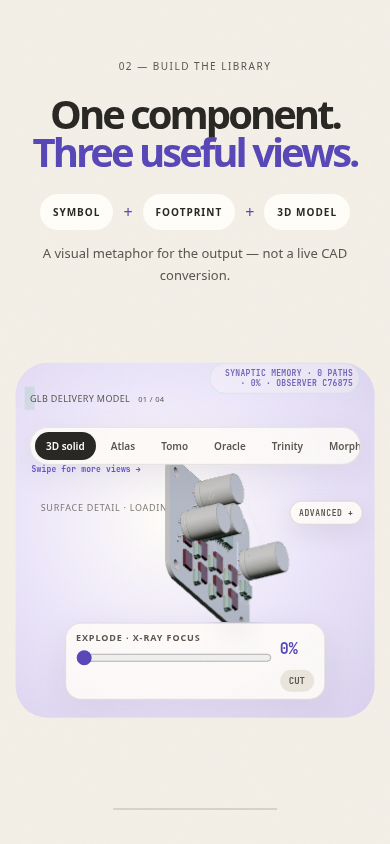
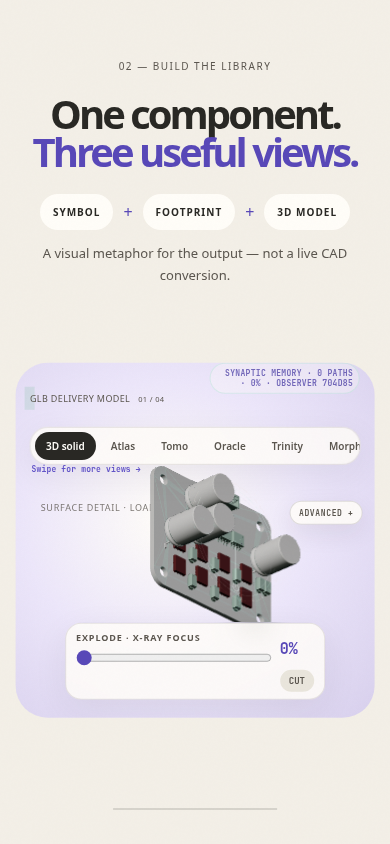
fix: improve model detail at library story beat

Changed region(s): [[0.3692, 0.5237, 0.7692, 0.7393], [0.8308, 0.4313, 0.8615, 0.4621]]

diff --git a/tests/model-narrative.spec.ts b/tests/model-narrative.spec.ts
@@ -1,17 +1,18 @@
 import { expect, test } from '@playwright/test';
 import { narrativeModelRotation, narrativeRotationTravel, temporalGhostDepth, temporalGhostOpacity } from '../src/js/model-narrative';
 
-test('mobile story rotation keeps the library-build view angled toward component detail', () => {
+test('responsive story rotation keeps the library-build view angled toward component detail', () => {
   const initialAngle = 0.22;
-  const libraryBuildAngle = 3.1;
-  const mobileAngle = narrativeModelRotation(initialAngle, libraryBuildAngle, 390);
+  const libraryBuildAngle = 2.2;
+  const mobileAngle = narrativeModelRotation(initialAngle, libraryBuildAngle, 359);
+  const desktopAngle = narrativeModelRotation(initialAngle, libraryBuildAngle, 700);
 
-  expect(narrativeRotationTravel(760)).toBe(0.3);
-  expect(mobileAngle).toBeLessThan((70 * Math.PI) / 180);
-  expect(narrativeRotationTravel(761)).toBeGreaterThan(0.3);
-  expect(narrativeRotationTravel(761)).toBeLessThan(narrativeRotationTravel(768));
-  expect(narrativeRotationTravel(1280)).toBe(1);
-  expect(narrativeModelRotation(initialAngle, libraryBuildAngle, 1440)).toBe(libraryBuildAngle);
+  expect(narrativeRotationTravel(360)).toBe(0.3);
+  expect(narrativeRotationTravel(530)).toBeCloseTo(0.4);
+  expect(mobileAngle).toBeLessThan((50 * Math.PI) / 180);
+  expect(narrativeRotationTravel(699)).toBeLessThan(0.5);
+  expect(narrativeRotationTravel(700)).toBe(0.5);
+  expect(desktopAngle).toBeLessThan((70 * Math.PI) / 180);
 });
 
 test('temporal model echoes trail behind past geometry and lead future geometry', () => {

diff --git a/src/js/model-narrative.ts b/src/js/model-narrative.ts
@@ -1,26 +1,27 @@
 export type NarrativeTrack = "past" | "present" | "future";
 
-const MOBILE_VIEWPORT_MAX_WIDTH = 760;
-const DESKTOP_VIEWPORT_FULL_ROTATION_WIDTH = 1280;
+const MOBILE_STAGE_WIDTH_MAX = 360;
+const DESKTOP_STAGE_WIDTH_BASELINE = 700;
 const MOBILE_ROTATION_TRAVEL = 0.3;
+const DESKTOP_ROTATION_TRAVEL = 0.5;
 
-export const narrativeRotationTravel = (viewportWidth: number): number => {
+export const narrativeRotationTravel = (stageWidth: number): number => {
   const responsiveProgress = Math.max(
     0,
     Math.min(
       1,
-      (viewportWidth - MOBILE_VIEWPORT_MAX_WIDTH) /
-        (DESKTOP_VIEWPORT_FULL_ROTATION_WIDTH - MOBILE_VIEWPORT_MAX_WIDTH),
+      (stageWidth - MOBILE_STAGE_WIDTH_MAX) /
+        (DESKTOP_STAGE_WIDTH_BASELINE - MOBILE_STAGE_WIDTH_MAX),
     ),
   );
-  return MOBILE_ROTATION_TRAVEL + responsiveProgress * (1 - MOBILE_ROTATION_TRAVEL);
+  return MOBILE_ROTATION_TRAVEL + responsiveProgress * (DESKTOP_ROTATION_TRAVEL - MOBILE_ROTATION_TRAVEL);
 };
 
 export const narrativeModelRotation = (
   initialRotation: number,
   targetRotation: number,
-  viewportWidth: number,
-): number => initialRotation + (targetRotation - initialRotation) * narrativeRotationTravel(viewportWidth);
+  stageWidth: number,
+): number => initialRotation + (targetRotation - initialRotation) * narrativeRotationTravel(stageWidth);
 
 const TEMPORAL_GHOST_DEPTH = 0.022;
 const TEMPORAL_GHOST_OPACITY: Record<NarrativeTrack, number> = {

diff --git a/src/js/model-viewer.ts b/src/js/model-viewer.ts
@@ -3100,7 +3100,7 @@ export const setupModel = async (): Promise<void> => {
   const keyframes = [
     { at: 0, x: 0, y: 0, rx: -0.28, ry: 0.22, scale: 1 },
     { at: 0.23, x: -0.28, y: 0.02, rx: -0.12, ry: 1.3, scale: 0.92 },
-    { at: 0.48, x: 0.3, y: -0.03, rx: -0.48, ry: 3.1, scale: 0.9 },
+    { at: 0.48, x: 0.3, y: -0.03, rx: -0.48, ry: 2.2, scale: 0.9 },
     { at: 0.73, x: 0.72, y: 0.02, rx: -0.2, ry: 4.7, scale: 0.65 },
     { at: 1, x: 1.15, y: -0.04, rx: 0.04, ry: 6.1, scale: 0.34 },
   ];

diff --git a/docs/QUALITY_BASELINE_en.md b/docs/QUALITY_BASELINE_en.md
@@ -7,7 +7,7 @@ Recorded: 2026-10-17. This document records facts reproducible from the reposito
 ## Verified
 
 - 2026-10-17: The nine mobile Lab view options exceeded the visible width, while the hidden scrollbar made horizontal scrolling hard to discover. Added a bilingual visual cue and screen-reader description; it appears only on narrow screens in the 3D solid view, stays clear of status and controls in both motion modes, and is hidden at 768/1440px. Bilingual 390px screenshots: `.github/pr-evidence/lab-scroll-cue-after-{zh,en}-390.png`. Build (8 routes, zero Astro diagnostics), `pnpm run check`, full Playwright (240 passed, 4 skipped), eight-page validation, model-asset checks, and `git diff --check` passed. Feng083 independently reviewed PR #398; Site Quality run `38985998641` (240 passed, 4 skipped) and Dependency Review `38985998628` passed. Not deployed or tested on a real device.
-- 2026-10-17: Bilingual 390px Lab scroll screenshots showed the board near a 95° side view at the “Build the library” beat, obscuring component detail. Mobile model-story rotation is limited to 30% of desktop travel, with a smooth transition across 760–1280px; the mobile pose at this beat is about 62°, while 1440px desktop travel is unchanged. Before/after bilingual 390px screenshots and a Chinese 1440px screenshot are in `.github/pr-evidence/lab-mobile-model-detail-{before,after}-*`. `pnpm run check`, build (8 routes, zero Astro diagnostics), full Playwright (242 passed, 4 skipped), eight-page validation, model-asset checks, six Python unit tests, and `git diff --check` passed. On `fix/lab-mobile-model-detail-angle`; not deployed or tested on a real device.
+- 2026-10-17: Bilingual 390px and Chinese 1440px Lab scroll screenshots both showed the board near a 95° side view at the “Build the library” beat. Stage widths are 359px and 700px at those viewports. Mobile stage rotation travel smoothly scales from 30% to the existing 50% keyframe delta across 360–700px, and the beat target changes from 3.1rad to 2.2rad. The phone/desktop poses are now about 46°/69°, making the board face and component details clearer. Before/after screenshots are in `.github/pr-evidence/lab-mobile-model-detail-{before,after}-*`. `pnpm run check`, build (8 routes, zero Astro diagnostics), full Playwright (242 passed, 4 skipped), eight-page validation, model-asset checks, six Python unit tests, and `git diff --check` passed. On `fix/lab-mobile-model-detail-angle`; not deployed or tested on a real device.
 - 2026-10-17: PR #393 changed the third homepage workflow-card CTA from “Start downloading” to “View downloads,” accurately describing its same-page link to download options. The Chinese label changed from “开始下载” to “查看下载项.” Added a bilingual browser assertion and reviewed 390px/1440px story-rail screenshots. Local Astro check, build, full Playwright (238 passed, 4 skipped), eight-route validation, model-asset checks, and `git diff --check` passed. Feng083 independently reviewed it; PR Site Quality `38981064439`, Dependency Review `38981064437`, and post-merge Site Quality `38981532611` passed (238 passed, 4 skipped). PR #395 synchronized master ancestry (no file diff); its PR checks `38982132479` and post-merge run `38982415123` passed. PR #394 promoted the update to `master` (merge `92a20a2`); PR Site Quality `38982421088` and master push Site Quality `38982780264` passed (238 passed, 4 skipped). Not deployed or tested on a real device.
 - 2026-10-17: PR #387 aligned Chinese and English installation guidance, explicitly asking visitors to review the release notes and verify SHA256 before installing. At 320px, the English download heading dropped from four lines to three and both localized primary download CTAs stay on one line. Initial PR CI found a fourth English title line under Runner font metrics that local browsers did not reproduce; a smaller narrow-screen size passed the unchanged strict regression. Bilingual 320/390/1440px screenshots are included. Feng083 independently reviewed the latest commit before merge into `version/V0.0.1` at `f6fe1a6`; PR Site Quality `38974419278` (238 passed, 4 skipped), Dependency Review `38974419245`, and post-merge Site Quality `38974971842` (238 passed, 4 skipped) passed. Local checks passed. PR #389 promoted the change to `master` (merge `77081fc`) after independent approval and required checks; master push Site Quality `38977597850` passed (238 passed, 4 skipped). Source is not deployed or real-device tested. The Release API returned 403, so the build used the `v3.1.13` fallback.
 - 2026-10-17: PR #384 aligned the bilingual Lab introduction around the real STEP-derived GLB, mesh-atlas/section/topology views, and when controls become available. It moved the homepage CAD/WASM boundary and GLB-failure fallback into the loading card, and fixed the stranded CAD/WASM line in the Chinese mobile intro. Both intro paragraphs stay within 80px at 320/360/390px; a Han-orphan regression and bilingual 320/390/1440px screenshots were added. Feng083 independently reviewed the change before it merged into `version/V0.0.1` at `3127d3f`. PR Site Quality `38968520101` and post-merge run `38969218943` passed (238 passed, 4 skipped); Dependency Review `38968520149` passed. Local build (8 routes, zero Astro diagnostics), focused regressions (6 passed), full Playwright (238 passed, 4 skipped), eight-route validation, desktop/mobile model-asset checks, and `git diff --check` passed. PR #385 synchronized bilingual project records; PR #386 promoted the validated version to `master` after independent approval and required checks (merge `a89cbf2`), and master Site Quality `38971238134` passed (238 passed, 4 skipped). The Release API returned 403, so the checked-in `v3.1.13` fallback was used. No production deployment or real-device validation was performed.

diff --git a/docs/QUALITY_BASELINE.md b/docs/QUALITY_BASELINE.md
@@ -7,7 +7,7 @@
 ## 已验证
 
 - 2026-10-17：手机端 Lab 的 9 个视图选项超出可视宽度，且隐藏滚动条令横向滑动不易发现。新增中英文视觉提示及屏幕阅读器说明；提示只在窄屏 3D 实体视图显示，普通/减少动态模式下均避开状态标签和控件，768/1440px 隐藏提示。双语 390px 截图：`.github/pr-evidence/lab-scroll-cue-after-{zh,en}-390.png`。构建（8 路由、Astro 0 诊断）、`pnpm run check`、完整 Playwright（240 passed、4 skipped）、8 页面校验、模型资产检查及 `git diff --check` 均通过。Feng083 独立审评 PR #398；Site Quality run `38985998641`（240 passed、4 skipped）及 Dependency Review `38985998628` 均通过。未部署生产或验证真机。
-- 2026-10-17：中英文 390px Lab 滚动截图显示“构建元件库”节点模型约 95° 侧视，板卡器件细节难辨。将移动端模型叙事旋转行程限制为桌面行程的 30%，并在 760–1280px 平滑过渡；该节点移动角度约 62°，1440px 桌面行程未变。前后双语 390px 截图及 1440px 中文截图见 `.github/pr-evidence/lab-mobile-model-detail-{before,after}-*`。`pnpm run check`、构建（8 路由、Astro 0 诊断）、完整 Playwright（242 passed、4 skipped）、8 页面校验、模型资产检查、6 项 Python 单测和 `git diff --check` 通过。位于 `fix/lab-mobile-model-detail-angle`，尚未部署或实机验证。
+- 2026-10-17：中英文 390px 与中文 1440px Lab 滚动截图均显示“构建元件库”节点模型接近 95° 侧视。390px 与 1440px 视口下舞台分别为 359px、700px；移动舞台旋转行程在 360–700px 内从完整关键帧变化的 30% 平滑过渡到 50%，并将节点目标角从 3.1rad 改为 2.2rad。手机/桌面模型姿态现约 46°/69°，板面细节更可辨。前后截图见 `.github/pr-evidence/lab-mobile-model-detail-{before,after}-*`。`pnpm run check`、构建（8 路由、Astro 0 诊断）、完整 Playwright（242 passed、4 skipped）、8 页面校验、模型资产检查、6 项 Python 单测和 `git diff --check` 通过。位于 `fix/lab-mobile-model-detail-angle`，尚未部署或实机验证。
 - 2026-10-17：PR #393 将首页第三张流程卡片中“开始下载”改为“查看下载项”，英文同步从 “Start downloading” 改为 “View downloads”，准确描述跳转到本页下载区域。新增双语浏览器断言，并复核 390px/1440px 流程卡截图。本地 Astro 检查、构建、完整 Playwright（238 passed、4 skipped）、8 路由校验、模型资产检查与 `git diff --check` 通过。Feng083 独立审评；PR Site Quality `38981064439`、Dependency Review `38981064437` 与版本合并后 Site Quality `38981532611` 均通过（238 passed、4 skipped）。PR #395 同步 master 祖先历史（无文件差异）；PR checks `38982132479`、合并后 `38982415123` 通过。随后 PR #394 将更新晋级 `master`（merge `92a20a2`）；PR Site Quality `38982421088` 与 master push Site Quality `38982780264` 均通过（238 passed、4 skipped）。未部署生产或验证真机。
 - 2026-10-17：PR #387 对齐首页中英文安装指引，明确要求安装前查看发布说明并核对 SHA256；320px 下英文下载标题从 4 行收至 3 行，双语主下载 CTA 均保持单行。首次 PR CI 在 Runner 字体下发现本地未复现的英文标题第 4 行；缩小窄屏字号后，严格回归通过。附双语 320/390/1440px 截图。Feng083 独立审评后合入 `version/V0.0.1`（merge `f6fe1a6`）；PR Site Quality `38974419278`（238 passed、4 skipped）、Dependency Review `38974419245` 与合并后 Site Quality `38974971842`（238 passed、4 skipped）通过。本地完整校验通过。随后 PR #389 将其晋级 `master`（merge `77081fc`），独立审批及必需检查通过，master push Site Quality `38977597850` 通过（238 passed、4 skipped）。源码未部署生产，真机未验证；Release API 返回 403 时构建使用 `v3.1.13` 回退。
 - 2026-10-17：PR #384 对齐中英文 Lab 入口对真实 STEP 派生 GLB、网格星图/剖面/拓扑视图及模型就绪后控件的说明；将首页 CAD/WASM 不加载与 GLB 失败才回退的加载边界放入说明卡，并修复中文移动端 CAD/WASM 孤行。中文和英文入口段落在 320/360/390px 均不超过 80px；增加单字孤行回归，附双语 320/390/1440px 截图。Feng083 独立审评后合入 `version/V0.0.1`（merge `3127d3f`）；PR Site Quality `38968520101` 与合并后 `38969218943` 均通过（238 passed、4 skipped），Dependency Review `38968520149` 通过。本地构建（8 路由，Astro 无诊断）、聚焦回归（6 passed）、完整 Playwright（238 passed、4 skipped）、8 路由校验、桌面/移动模型资产检查与 `git diff --check` 均通过。PR #385 补齐双语项目记录；PR #386 经独立审批及必需检查晋级 `master`（merge `a89cbf2`），master Site Quality `38971238134` 通过（238 passed、4 skipped）。Release API 返回 403，使用 `v3.1.13` 回退。未部署生产或验证真机。

diff --git a/docs/PROJECT_STATUS_en.md b/docs/PROJECT_STATUS_en.md
@@ -14,7 +14,7 @@ The project remains in V0.0.1 stability maintenance and visitor-experience impro
 
 This Lab mobile review found that all nine view options were horizontally scrollable, but the hidden scrollbar and lack of guidance made off-screen views hard to discover. Added a bilingual cue and assistive-technology description; 390px normal/reduced-motion regressions pass, and the cue stays hidden at 768/1440px. Full Playwright (240 passed, 4 skipped), build, eight-route validation, and model-asset checks passed. Feng083 independently approved PR #398; Site Quality run `38985998641` (240 passed, 4 skipped) and Dependency Review `38985998628` passed. Not deployed or tested on a real device.
 
-Continuing WEB-04, bilingual 390px Lab scroll screenshots showed the board nearly edge-on (about 95°) at the “Build the library” beat, hiding component detail. Mobile narrative rotation is now limited to 30% of desktop travel, with a smooth transition from 760px to 1280px; the mobile pose at this beat is about 62°, while the 1440px desktop travel is unchanged. Bilingual screenshots with the real GLB and a unit regression were added. `pnpm run check`, build, full Playwright (242 passed, 4 skipped), eight-route validation, model-asset checks, and six Python unit tests passed. The fix remains on `fix/lab-mobile-model-detail-angle`; it is not deployed or real-device tested.
+Continuing WEB-04, 390px and 1440px Lab scroll screenshots both showed the board nearly edge-on (about 95°) at the “Build the library” beat, obscuring component detail. The measured stage widths are 359px at a 390px viewport and 700px at 1440px. Mobile rotation travel now smoothly scales from 30% to the existing 50% keyframe delta, and this beat’s target angle is reduced from 3.1rad to 2.2rad. The board now sits at about 46° on phone and 69° on desktop, making its face and main components clearer. Bilingual 390px and Chinese 1440px real-GLB before/after screenshots and a pose regression were added. `pnpm run check`, build, full Playwright (242 passed, 4 skipped), eight-route validation, model-asset checks, and six Python unit tests passed. The fix remains on `fix/lab-mobile-model-detail-angle`; it is not deployed or real-device tested.
 
 PR #345 was then independently reviewed by Feng083 and merged into `version/V0.0.1` (merge `74f8437`), fixing the reduced-motion Lab heading/stage overlap and control placement. Its PR Site Quality and Dependency Review checks passed, as did post-merge Site Quality run `38756881636`. Production was not deployed.
 

diff --git a/docs/PROJECT_STATUS.md b/docs/PROJECT_STATUS.md
@@ -14,7 +14,7 @@
 
 本轮 Lab 手机视图切换栏审查发现 9 个选项虽可横向滚动，但隐藏滚动条且没有提示，导致后续视图不易发现。已增加中英文屏幕提示与辅助技术说明；390px 窄屏普通/减少动态模式专项回归通过，768/1440px 不显示多余提示；完整 Playwright（240 passed、4 skipped）、构建、8 路由和模型资产检查均通过。PR #398 由 Feng083 独立审评通过；Site Quality run `38985998641`（240 passed、4 skipped）及 Dependency Review `38985998628` 均通过。变更尚未部署生产或验证真机。
 
-继续 WEB-04 时，双语 390px Lab 滚动截图显示“构建元件库 / Build the library”节点的板卡模型接近侧视（约 95°），器件细节难以辨认。移动视口的叙事旋转行程已降至桌面角度行程的 30%，并在 760–1280px 平滑过渡；该节点移动姿态现约 62°，1440px 桌面行程保持不变。中英文真实 GLB 截图及单测已补充，`pnpm run check`、构建、完整 Playwright（242 passed、4 skipped）、8 路由校验、模型资产检查、6 项 Python 单测均通过。当前修复仍在 `fix/lab-mobile-model-detail-angle`，未部署或实机验证。
+继续 WEB-04 时，双语 390px 和 1440px Lab 滚动截图都显示“构建元件库 / Build the library”节点的板卡模型接近 95° 侧视，器件细节难以辨认。实测 390px 视口下舞台宽 359px，1440px 视口下舞台宽 700px；移动舞台角度行程从完整关键帧变化的 50% 平滑降到 30%，并把该节点关键帧目标从 3.1rad 调至 2.2rad。模型现在分别约为手机 46°、桌面 69°，板面与主要器件更清楚。中英文 390px 与中文 1440px 真实 GLB 前后截图、姿态单测均已补充。`pnpm run check`、构建、完整 Playwright（242 passed、4 skipped）、8 路由校验、模型资产检查、6 项 Python 单测均通过。修复仍在 `fix/lab-mobile-model-detail-angle`，未部署或实机验证。
 
 随后 PR #345 经 Feng083 独立审评并合入 `version/V0.0.1`（merge `74f8437`），修复 reduced-motion 下 Lab 标题/模型舞台重叠及控件定位；PR Site Quality、Dependency Review 和合并后 Site Quality run `38756881636` 均通过。生产未部署。
 
